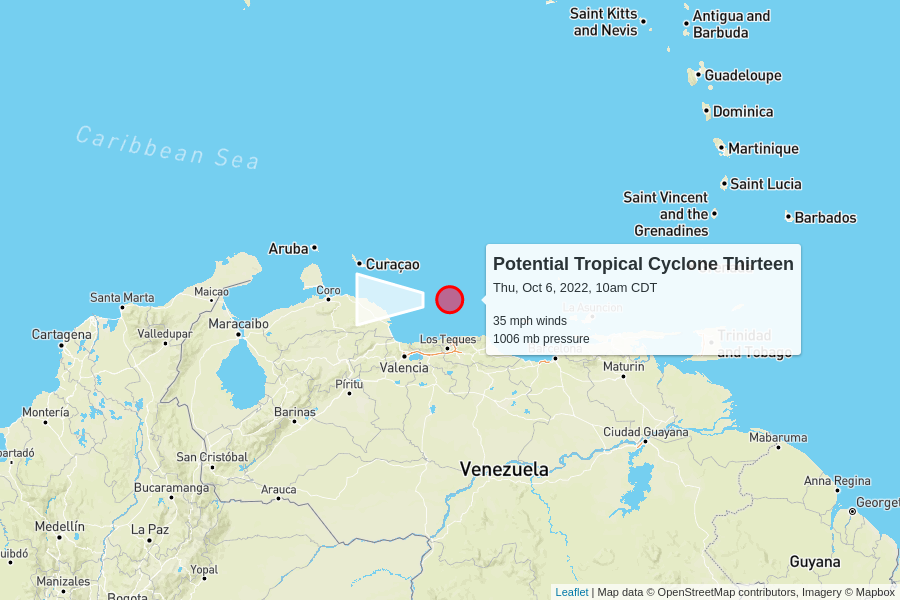
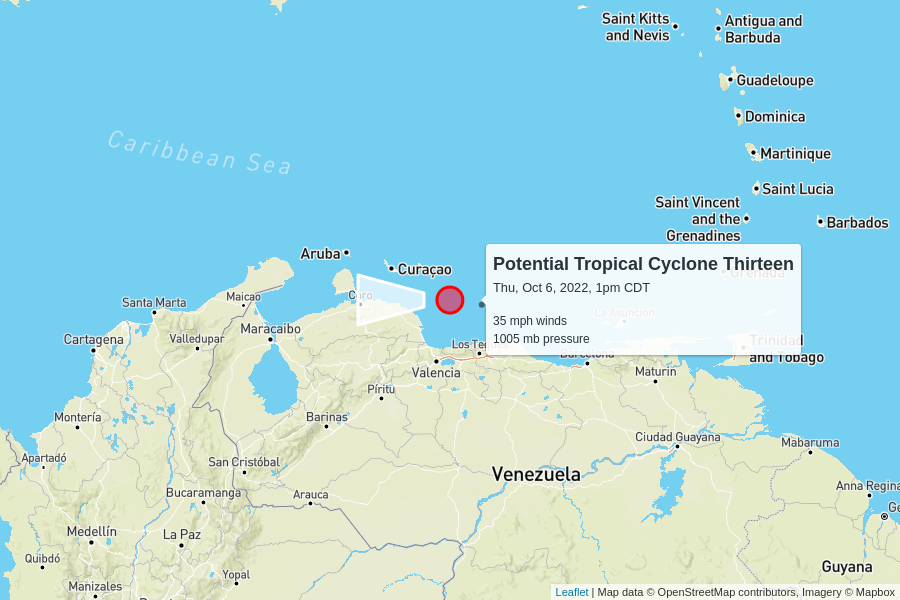
automatic update

diff --git a/docs/index.html b/docs/index.html
@@ -99,6 +99,50 @@
       <tr>
         <td colspan="6" class="storm category-0" >
           <h2>
+            Potential Tropical Cyclone Thirteen
+            <p class="updated">last updated <span data-time>2022-10-06T18:00:00.000Z</span></p>
+          </h2>
+        </td>
+      </tr>
+      
+      <tr>
+        <th class="spacer"></th>
+        <th>wind speed</th>
+        <th>central pressure</th>
+        <th>movement</th>
+        <th>data (CSV)</th>
+        <th>National Hurricane Center</th>
+      </tr>
+      <tr>
+        <td class="spacer"></td>
+        <td>35 mph</td>
+        <td>1005 mb</td>
+        <td>
+          15 mph to the west
+          <br/>
+          <span style="display: inline-block; font-size: 1.5em; transform: rotate(270deg);">↑</span>
+        </td>
+        <td><a href="https://raw.githubusercontent.com/mgwalker/atlantic-hurricanes/main/data/csv/AL132022.csv">AL132022.csv</a></td>
+        <td><a href="https://www.nhc.noaa.gov/archive/2022/THIRTEEN.shtml?">NHC advisories</a></td>
+      </tr>
+      <tr id="storm_AL132022" >
+        <td class="spacer">
+        <td colspan="5">
+          <figure>
+            <img src="AL132022.png">
+            <figcaption>
+              Map data &copy; <a href="https://www.openstreetmap.org/copyright">OpenStreetMap</a> contributors,
+              Imagery &copy; <a href="https://www.mapbox.com/">Mapbox</a> |
+              <a href="https://www.mapbox.com/map-feedback/" target="_blank">Improve this map</a>
+            </figcaption>
+          </figure>
+        </td>
+      </tr>
+      
+
+      <tr>
+        <td colspan="6" class="storm category-0" >
+          <h2>
             Tropical Depression Twelve
             <p class="updated">last updated <span data-time>2022-10-06T15:00:00.000Z</span></p>
           </h2>
@@ -130,50 +174,6 @@
         <td colspan="5">
           <figure>
             <img src="AL122022.png">
-            <figcaption>
-              Map data &copy; <a href="https://www.openstreetmap.org/copyright">OpenStreetMap</a> contributors,
-              Imagery &copy; <a href="https://www.mapbox.com/">Mapbox</a> |
-              <a href="https://www.mapbox.com/map-feedback/" target="_blank">Improve this map</a>
-            </figcaption>
-          </figure>
-        </td>
-      </tr>
-      
-
-      <tr>
-        <td colspan="6" class="storm category-0" >
-          <h2>
-            Potential Tropical Cyclone Thirteen
-            <p class="updated">last updated <span data-time>2022-10-06T15:00:00.000Z</span></p>
-          </h2>
-        </td>
-      </tr>
-      
-      <tr>
-        <th class="spacer"></th>
-        <th>wind speed</th>
-        <th>central pressure</th>
-        <th>movement</th>
-        <th>data (CSV)</th>
-        <th>National Hurricane Center</th>
-      </tr>
-      <tr>
-        <td class="spacer"></td>
-        <td>35 mph</td>
-        <td>1006 mb</td>
-        <td>
-          15 mph to the west
-          <br/>
-          <span style="display: inline-block; font-size: 1.5em; transform: rotate(270deg);">↑</span>
-        </td>
-        <td><a href="https://raw.githubusercontent.com/mgwalker/atlantic-hurricanes/main/data/csv/AL132022.csv">AL132022.csv</a></td>
-        <td><a href="https://www.nhc.noaa.gov/archive/2022/THIRTEEN.shtml?">NHC advisories</a></td>
-      </tr>
-      <tr id="storm_AL132022" >
-        <td class="spacer">
-        <td colspan="5">
-          <figure>
-            <img src="AL132022.png">
             <figcaption>
               Map data &copy; <a href="https://www.openstreetmap.org/copyright">OpenStreetMap</a> contributors,
               Imagery &copy; <a href="https://www.mapbox.com/">Mapbox</a> |
